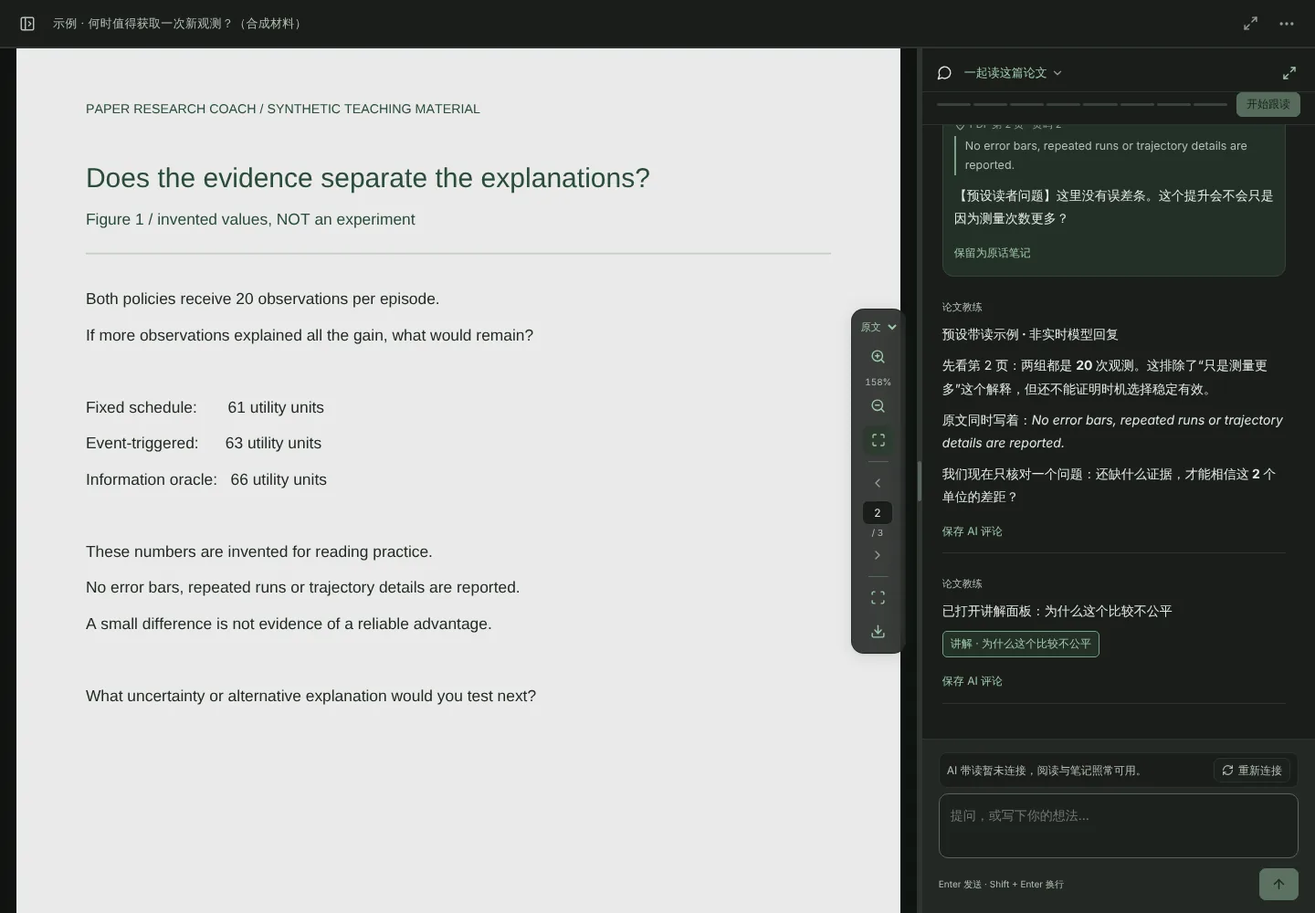
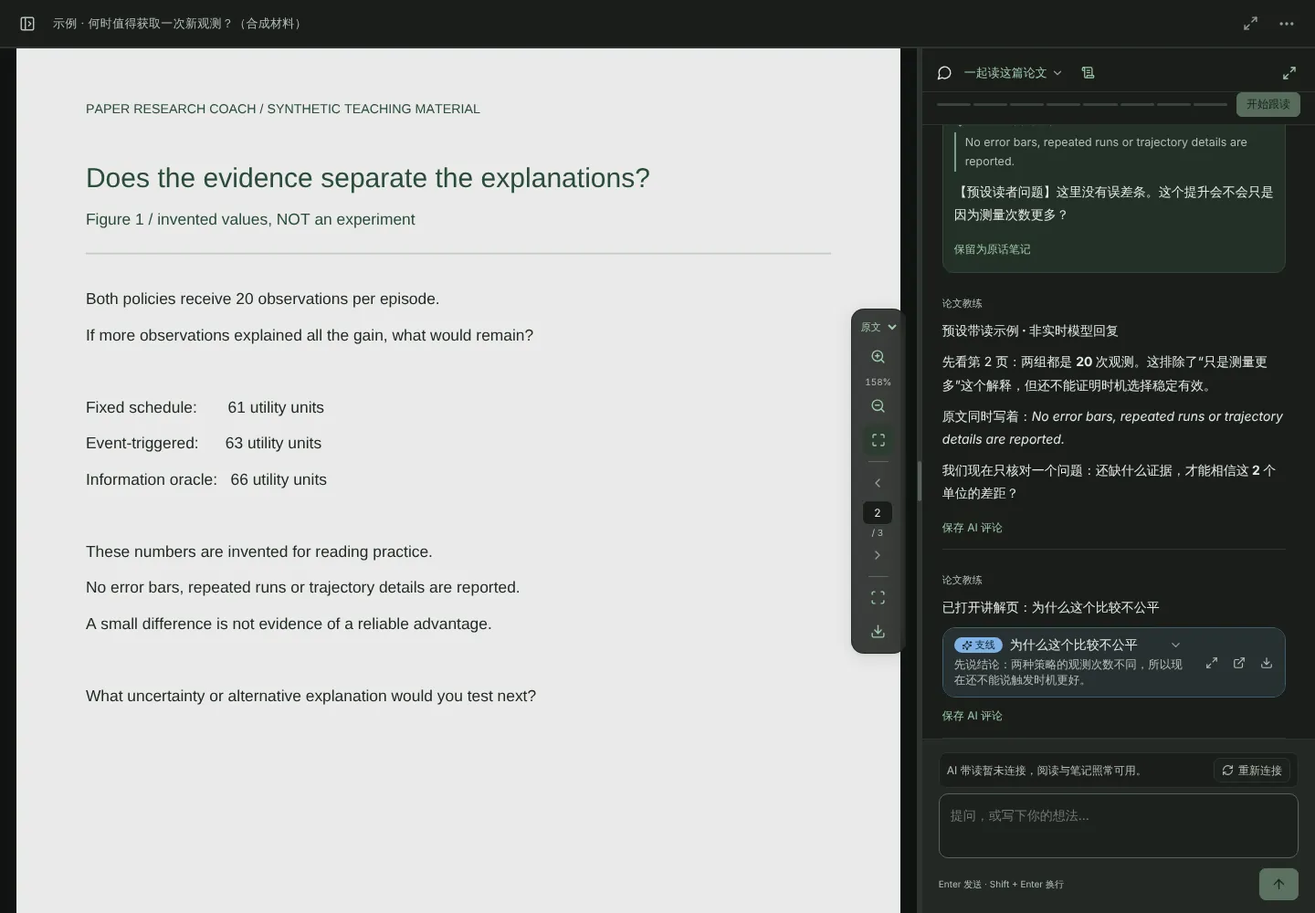
README and docs: quests, side quests, journey tree, Answer me with HTML
Both READMEs gain "像玩任务一样读论文" (quest card, side quest,
quest log, journey tree) and "一问就画出来：引入 Answer me with HTML
之后" (before/after, components, attribution) with refreshed synthetic
screenshots. WORKBENCH, METHOD, SHOWCASE, the attribution file and
the changelog describe the new behaviour; SHOWCASE documents the
Transformer capture script.

Claude-Session: https://claude.ai/code/session_01GcpVAfSr2umPABSyECRYFV

Changed region(s): [[0.7188, 0.31, 0.9688, 0.589], [0.7188, 0.62, 0.9688, 0.806], [0.7188, 0.155, 0.9688, 0.31]]

diff --git a/README.en.md b/README.en.md
@@ -24,7 +24,7 @@ The coach takes you to the sentence in the paper, gives you one small task at a 
 
 <picture>
   <source media="(prefers-color-scheme: dark)" srcset="docs/images/mainline-dark.webp">
-  <img src="docs/images/mainline.webp" alt="A mainline task: on the left the PDF has turned to the evidence page with sentence 1 marked; on the right the reply carries a small comparison table and the task card above the message box shows where to look, the task, what counts as done and one-tap answers.">
+  <img src="docs/images/mainline.webp" alt="A mainline quest card: on the left the PDF has turned to the evidence page with sentence 1 marked; on the right the reply is a card titled “mainline · chapter 5/8, evidence” with the marked quote, a small comparison table inside, and a one-line task strip above the message box.">
 </picture>
 
 <p align="center"><sub>Actual UI, following your light / dark theme · synthetic paper and a labelled scripted reply, not live-model output; no model was connected, so the buttons are grey · <a href="docs/SHOWCASE.md">Reproduce</a></sub></p>
@@ -39,12 +39,66 @@ The coach takes you to the sentence in the paper, gives you one small task at a 
   <img src="docs/images/loop-en.svg" alt="The reading loop: 1 see the source (the PDF turns to the page, sentences numbered) → 2 do one thing (predict or answer) → 3 check the evidence (the coach checks, with a small figure if it helps) → 4 keep a takeaway (one sentence, yours), and the next task appears at once.">
 </picture>
 
-The coach walks you through eight steps (reading goal → distinctive contribution → problem setting → mechanism → evidence → boundaries and judgment → research implications → recall), each one a small loop like the one above. A concrete question halfway through opens a panel beside the paper; press “回到主线” (back to the mainline) and you carry on.
+The coach walks you through eight mainline chapters (reading goal → distinctive contribution → problem setting → mechanism → evidence → boundaries and judgment → research implications → recall), each one a small loop like the one above. A concrete question halfway through opens a one-page visual explanation right in the conversation: a side quest. When you get it, press “我弄懂了” (I get it now); the mainline is where you left it.
 
 <p align="center">
   <img src="docs/images/demo.webp" width="860" alt="Animated demo: the task card appears → the PDF turns to page 2 and marks sentence ① → the small figure in the reply expands → one click returns to the earlier page.">
   <br><sub>Animated demo · synthetic paper and scripted replies, not live-model output (captions in Chinese)</sub>
 </p>
+
+## 🎮 Read a paper like a quest
+
+The mainline has eight chapters, one quest card each. The questions you ask on the way are side quests, filed under the chapter you were in. When you finish, the whole reading becomes a journey tree. There are no points and no mastery scores: finishing a chapter only means this round covered that judgment.
+
+<table>
+<tr>
+<td width="50%"><img src="docs/images/branch-card.webp" alt="A side-quest card in the conversation: the title, a conclusion card, panel A with a flow chart of the two budgets, and a comparison table."></td>
+<td width="50%"><img src="docs/images/side-quest-done.webp" alt="The side-quest box under an explainer page: done, with the reader's own one-sentence takeaway and buttons to rewrite it or reopen the side quest."></td>
+</tr>
+<tr>
+<td align="center"><sub><b>A side quest</b> · one explainer page, opened in the conversation</sub></td>
+<td align="center"><sub><b>Side quest done</b> · one sentence in your words, kept as written</sub></td>
+</tr>
+<tr>
+<td><img src="docs/images/quest-log-main.webp" alt="The quest log: mainline 4/8 chapters, the first four ticked with their takeaways, chapter 5 in progress with its task, and a side quest from before the mainline started."></td>
+<td>
+<picture>
+  <source media="(prefers-color-scheme: dark)" srcset="docs/images/journey-dark.webp">
+  <img src="docs/images/journey.webp" alt="The journey tree: the paper at the root and a trunk with eight chapters; finished chapters show their takeaways, chapter 5 shows its task and the marked passage, and chapters not started are dashed.">
+</picture>
+</td>
+</tr>
+<tr>
+<td align="center"><sub><b>Quest log</b> · eight chapters and the side quests under each</sub></td>
+<td align="center"><sub><b>Journey tree</b> · passages, your answers, takeaways and side quests in one tree; downloadable as HTML</sub></td>
+</tr>
+</table>
+
+| | What it is | When it is done |
+|---|---|---|
+| **Main quest** | Eight chapters, one card each: look here (the sentence marked in the PDF), your task (often one tap), the takeaway when it is done | The coach checks your answer against the source; you keep one sentence |
+| **Side quest** | A concrete question you asked while reading. The page opens in the conversation; follow-ups become its next pages | Only you can press “I get it now” (with one sentence of your own) or “set it aside” |
+| **Quest log** | The eight chapters with their takeaways, and the side quests under each | Open it any time; one click goes back to the page or the PDF |
+| **Journey tree** | The paper and your core judgment at the root; under each chapter the marked passages, your verbatim answers, the coach's first sentence, takeaways, side quests and notes | Offered when chapter 8 is done; also written into the Markdown paper card |
+
+<p align="center"><sub>Screenshots use a synthetic paper and clearly labelled scripted content, not live model output.</sub></p>
+
+## 🎨 Ask, and it is drawn: what Answer me with HTML changed
+
+The explainer pages build on [Answer me with HTML](https://github.com/QingYunA/answer-me-with-html) (QingYunA, MIT). The coach writes neither long paragraphs nor HTML: it writes a short Markdown draft, and the workbench draws the page.
+
+| Before | Now |
+|---|---|
+| A “why” got several paragraphs | One conclusion first, then panels A, B, C: a flow chart, a comparison table, a formula, a callout |
+| Answers got lost in the chat | Each question is a side quest under its chapter, easy to find in the quest log and the journey tree |
+| Not following meant asking again from scratch | Press “没看懂” on the one panel; the next page explains only that panel |
+| Explanations sat apart from the paper | Pages cite PDF pages, and the coach marks the sentences ①② in the PDF |
+| Mainline replies were plain text | A mainline reply is a quest card that can carry one small figure |
+| Keeping a copy meant copy and paste | Explainer pages and the journey tree download as one offline HTML file |
+
+- **Components**: `flow`, `sequence`, `tree`, `timeline`, `callout`, `ask`, `kv`, plus tables (✓ ✗ ! badges) and formulas. Two columns on wide screens; `{span=2}` makes a wide figure span both.
+- **Why it feels natural**: pages are drawn from data only, so text in a draft never runs as HTML; each page starts with its conclusion; a writing check flags long sentences, passive voice and empty phrases, and the coach rewrites them before you see the page.
+- **What we took**: the draft syntax and the writing-check rules are adapted from Answer me with HTML; the parser (Python) and the renderer (React) are our own, and its CLI is not bundled. See [THIRD_PARTY_ANSWER_ME_WITH_HTML.md](docs/THIRD_PARTY_ANSWER_ME_WITH_HTML.md).
 
 ## 🧭 Highlights
 
@@ -64,8 +118,8 @@ The task card says where to look, what to do and what counts as done. Prediction
 </td>
 <td width="33%" valign="top">
 
-**🧩 Explainer panel, one click back**<br>
-Concrete questions are answered beside the paper with figures, tables and short sentences, with follow-ups. Mainline replies can carry a small figure too.
+**🎨 Ask, and it is drawn**<br>
+A concrete question becomes a page in the conversation: flow charts, tables and formulas in lettered panels A, B, C. Ask about the one panel you did not follow. Fold it, enlarge it, pop it out or download it as HTML.
 
 </td>
 </tr>
@@ -115,11 +169,11 @@ Install the Skill for coaching in your agent, or use the workbench to read and d
 
 <table>
 <tr>
-<td width="50%"><img src="docs/images/branch.webp" alt="Explainer panel: the PDF on the left and a panel answering a concrete question with a flow chart, a table and a callout; “back to the mainline” sits at the top right."></td>
+<td width="50%"><img src="docs/images/branch.webp" alt="An explainer page enlarged beside the paper: the PDF on the left, a flow chart, a table and a callout on the right; “back to the mainline” sits at the top right."></td>
 <td width="50%"><img src="docs/images/reading.webp" alt="A discussion about one passage: the quoted source travels with the reader's question."></td>
 </tr>
 <tr>
-<td align="center"><sub><b>Explainer panel</b> · “回到主线” leaves the mainline where it was</sub></td>
+<td align="center"><sub><b>Explainer page, enlarged</b> · “回到主线” leaves the mainline where it was</sub></td>
 <td align="center"><sub><b>Talk about the source</b> · the quote travels with your question</sub></td>
 </tr>
 <tr>
@@ -203,7 +257,7 @@ Keep `references` and `assets`, not just `SKILL.md`. Format compatibility is not
 
 </details>
 
-With the workbench installed, the Skill in Claude Code can attach to the same paper's reading progress through `prc`: `prc find` finds the page, `prc show` turns the PDF there and marks the sentences, and `prc explain` opens the explainer panel.
+With the workbench installed, the Skill in Claude Code can attach to the same paper's reading progress through `prc`: `prc find` finds the page, `prc show` turns the PDF there and marks the sentences, and `prc explain` opens an explainer page (a side quest) in the conversation.
 
 <details>
 <summary>Uninstall, manual install, troubleshooting</summary>

diff --git a/docs/WORKBENCH.en.md b/docs/WORKBENCH.en.md
@@ -21,27 +21,35 @@ Automatic initialization is capped at 3000 characters, and ordinary per-turn pos
 ### Mainline and detours
 
 - **Where you are**: the coach title is the current step (“step n/8 · name”) above a thin progress line; click it to open the route and evidence receipts.
-- **Start**: **开始跟读** beside the progress line. After that, the mainline lives in the **task card** above the message box.
-- **The task card**: the step, **看这里** (look here; one click turns the PDF there), **你的任务** (your task) and **完成** (what counts as done). Predictions and choices have one-tap answers; buttons are **回答** (answer, focuses the box), **给我提示** (a hint) and **直接讲给我** (explain it); with nothing pending it shows **继续** (continue), and Enter in an empty box does the same.
+- **Start**: **开始跟读** beside the progress line. The eight steps are the eight mainline chapters.
+- **The mainline quest card**: each mainline reply is a card: “mainline · chapter n/8”, **看这里** (look here: the marked quotes with their pages; one click turns the PDF there), the coach's words (①②③ in the text are clickable too), at most one small figure, and **你的任务** (your task). Predictions and choices have one-tap answers; buttons are **回答** (answer, focuses the box), **给我提示** (a hint) and **直接讲给我** (explain it). When a chapter is done, the card ends with “chapter n done · takeaway: …”.
+- **The task strip**: one line above the message box with the current chapter and task; it opens into the full task (where to look, what counts as done), and **任务日志** (quest log) sits on its right. With nothing pending, Enter in an empty box continues the mainline.
 - **The coach shows you the source**: when the coach points at a page, the PDF turns there and the sentences to read are numbered ①②③ (a different colour from your own marks). A small chip offers **回到第 M 页** (back to page M) and **不要自动翻页** (stop turning pages for me; turn it back on in the tools drawer). At most one automatic jump per reply; reloading never jumps.
 - **A small figure in the mainline**: for a mechanism, a flow or evidence, a reply can carry a figure you can expand or pop out; choices inside it are sent as answers to the current question.
 - **Takeaways**: each finished step adds one sentence in your words to the route; after eight steps they form the paper card, which you can export.
 - **Answer**: with a pending question, type the answer and press Enter.
-- **Detour**: select text or a region and choose **讨论这处**, or **直接讲这处** for a one-click explanation. A detour never advances or resets the mainline. Concrete questions and technical details are answered in the **explainer panel** (below).
+- **Detour**: select text or a region and choose **讨论这处**, or **直接讲这处** for a one-click explanation. A detour never advances or resets the mainline. Concrete questions and technical details open a **side quest** answered by one explainer page (below).
 - **Nothing to configure**: answer versus detour is inferred (a selection is a detour; a reply to a pending question without a selection is an answer) and a small line under the box says where Enter will go. Ask for a hint, a direct explanation or a challenge in your own words. Region selections attach the page image automatically, and the coach can view any page itself.
 - **Getting the most out of it**: answer each step in a sentence before reading the feedback; state the contribution and your own next step in your words; park unfamiliar terms that do not block the current judgment. See [The reading method](METHOD.en.md).
 
-### The explainer panel (a branch)
+### Side quests and explainer pages
 
-Ask a concrete question (a concept, mechanism, equation, how to read a figure, a flow, a comparison, an implementation detail) and the coach opens an **explainer panel** beside the PDF instead of writing a wall of chat text:
+Ask a concrete question (a concept, mechanism, equation, how to read a figure, a flow, a comparison, an implementation detail) and the coach opens a **side quest** instead of writing a wall of chat text: one explainer page, shown as a card in the conversation and opened in place.
 
-- **Content**: the conclusion first, then flow charts, sequence diagrams, trees, timelines, tables (✓ ✗ badges) and callouts that draw the relations. The workbench draws them; the coach writes only content, and any text in a draft is shown as text and never executed.
-- **Follow-ups**: ask at the bottom of the panel; each follow-up is a new page of the same question (numbered tabs at the top). A decision the coach asks (`ask`) can be clicked, then “按这个选择继续” sends it.
-- **Back to the mainline**: **回到主线** at the top right (or Esc) closes the panel and focuses the message box; the mainline stays on its step and pending question, and is never advanced while the panel is open. A small line at the top reminds you where the mainline paused.
-- **New window**: the pop-out icon opens the same page in its own browser window, for a second screen; you can follow up there too, and “回到主线” closes it.
-- **History**: each explanation leaves a “讲解 · title” button in the chat; press it to reopen. Reloading never pops an old explanation open.
-- **Not every question gets a panel**: a one-word gloss or a one-sentence yes/no stays in chat, and mainline turns (continue, answer) open no panel; they carry at most one small figure inside the reply.
+- **Content**: a conclusion card, then panels lettered A, B, C: flow charts, sequence diagrams, trees, timelines, tables (✓ ✗ ! badges), formulas and callouts. Wide screens show two columns, and a wide figure spans both. The workbench draws them; the coach writes only content, and any text in a draft is shown as text and never executed.
+- **Fold and unfold**: click the card's title; folded, it is one line (title and conclusion). A new page in the same side quest folds the older ones. Reloading never unfolds an old page.
+- **Follow-ups**: ask at the bottom of the card, or use **追问这一块** (ask about this panel) and **没看懂** (I did not follow) at the top right of one panel. Each follow-up is a new page of the same side quest. A decision the coach asks (`ask`) can be clicked, then “按这个选择继续” sends it.
+- **Ending a side quest**: under the newest page, **我弄懂了** (I get it now; you may write one sentence in your words, kept as written) and **先放一放** (set it aside). Only you end a side quest; the coach never declares it for you. Setting it aside is not a failure: **继续这条支线** reopens it.
+- **Enlarge, pop out, download**: three buttons at the card's top right: enlarge beside the PDF (**回到主线** or Esc closes it and focuses the message box), open in its own window (for a second screen), or download one offline HTML file (static; no follow-ups).
+- **The mainline stays put**: during a side quest the mainline keeps its chapter and pending question.
+- **Not every question gets a side quest**: a one-word gloss or a one-sentence yes/no stays in chat, and mainline turns (continue, answer) open none; they carry at most one small figure inside the reply.
 - **From Claude Code**: `prc explain --paper ID --file draft.md` (`--check` only validates). The workbench must be running.
+
+### Quest log and journey tree
+
+- **Quest log**: from the task strip (or the icon beside the coach title). The eight chapters with their state (not started, in progress, done) and takeaways, and under each the side quests asked during it (in progress, understood, set aside). Click a side quest to go back to its page, or a page number to turn the PDF there.
+- **Journey tree**: **复盘树** in the quest log, or **查看这篇论文的复盘树** when chapter 8 is done. The root is the paper and the core judgment you wrote in chapter 6; the trunk is the eight chapters; under each chapter are the marked passages, the tasks with your verbatim answers, the first sentence of the coach's reply, the takeaway, side quests, notes, research ideas and review questions (filed by the chapter that was current when you wrote them; anything from before the mainline goes under “主线之外”). Fold it, open it in its own window (`#journey=PAPER_ID`), or download it as offline HTML.
+- **Records only**: the tree is not a new model summary, invents no answers and gives no scores. The Markdown paper card export carries the same content in a “主线与支线” section.
 - **Wording**: every reply follows plain-writing rules (short sentences, answer first, one word one meaning). Drafts are checked and may produce warnings; the check never refuses a draft. Rules: [style.md](../skills/paper-research-coach/references/style.md); sources and license: [THIRD_PARTY_ANSWER_ME_WITH_HTML.md](THIRD_PARTY_ANSWER_ME_WITH_HTML.md).
 
 Use secondary tools for the full route with evidence receipts, model connection, notes and evidence. Direct questions and explicit explanations do not require a complete reading route or translated PDF. Eight dimensions represent coverage, not measured mastery. Note consent and local performance-recording consent remain separate; AI explanations and Continue clicks do not demonstrate independent understanding.

diff --git a/docs/WORKBENCH.md b/docs/WORKBENCH.md
@@ -21,27 +21,35 @@
 ### 怎么用主线和插话
 
 - **看进度**：对话区标题就是当前步骤（“第 n/8 步 · 名称”），下面一条细进度线；点步骤名才展开八步路线与核查依据，平时不占地方。
-- **开始**：进度线右侧的 **开始跟读**。开始后，主线的操作都在输入框上方的**任务卡**里。
-- **任务卡**：写着第几步、**看这里**（点一下 PDF 就翻过去）、**你的任务**和**怎样算完成**。预测或选择题有一键作答的选项；按钮有 **回答**（光标进输入框）、**给我提示**、**直接讲给我**；没有待答问题时是 **继续**，空输入框按 Enter 也一样。
+- **开始**：进度线右侧的 **开始跟读**。八步就是主线八章。
+- **主线任务卡**：每条主线回复是一张卡：“主线 · 第 n/8 章”、**看这里**（标出的原文和页码，点一下 PDF 就翻过去）、教练的话（正文里的 ①②③ 也能点）、可能嵌着的一张小图、**你的任务**。预测或选择题有一键作答的选项；按钮有 **回答**（光标进输入框）、**给我提示**、**直接讲给我**。一章完成时，卡片底部出现“第 n 章完成 · 收获：……”。
+- **任务条**：输入框上方一行，写着当前章节和任务；点开是完整的任务说明（看哪里、怎样算完成），右侧是 **任务日志**。没有待答问题时空输入框按 Enter 继续主线。
 - **教练带你看原文**：教练讲到某一页时，PDF 会自动翻过去，要看的句子标着编号 ①②③（与你自己的标记颜色不同）。顶部一条小提示可以一键 **回到第 M 页**，也可以选 **不要自动翻页**（之后只在你点击时翻；工具抽屉里可再打开）。每次回复最多自动翻一次；刷新页面不会翻。
 - **主线里的小图**：讲机制、流程或证据时，回复里可能嵌一张小图，可以展开或在新窗口打开；图里的选项按“回答当前问题”发送。
 - **收获**：每完成一步，路线里多一句你的收获；八步完成后就是“这篇论文卡”，可以导出。
 - **回答**：有待答问题时，直接写回答按 Enter 即可。
-- **插话**：在 PDF 选中文字或框选区域，点 **讨论这处** 后提问，或点 **直接讲这处**；插话不推进也不打乱主线。具体问题和技术细节会在**讲解面板**里回答（见下）。
+- **插话**：在 PDF 选中文字或框选区域，点 **讨论这处** 后提问，或点 **直接讲这处**；插话不推进也不打乱主线。具体问题和技术细节会开一条**支线**，用一页讲解回答（见下）。
 - **全自动，不用设置**：是回答还是插话由系统判断（带选区为插话，有待答问题且无选区为回答），输入框下方一行小字会说明这次 Enter 的去向；想要提示、直接讲解或被反驳，直接在消息里说。框选区域会自动附上页面图像，教练也能自己查看任何一页。
 - **收获最大的读法**：每一步先自己答一句再看教练反馈；第 6 步用自己的话说贡献、第 7 步自己先说下一步做什么；看不懂但不影响判断的词先记下，读完一段再查。完整方法见 [阅读方法论](METHOD.md)。
 
-### 讲解面板（分支）
+### 支线与讲解页
 
-问一个具体问题（概念、机制、公式、图表怎么读、流程、对比、实现细节），教练会在 PDF 旁边打开一块**讲解面板**，而不是在聊天里写长文：
+问一个具体问题（概念、机制、公式、图表怎么读、流程、对比、实现细节），教练不在聊天里写长文，而是开一条**支线**：一页讲解作为一张卡片出现在对话里，自动展开。
 
-- **内容**：结论放最前，再用流程图、时序图、层级树、时间线、表格（✓ ✗ 标记）、提醒块把关系画出来。图由工作台画，教练只写内容；草稿里的任何文字都只当文本显示，不会被执行。
-- **追问**：面板底部直接追问，每个追问是同一问题的新一页（顶部有页码）。教练给出的“决定”（`ask`）可以点选，选完点“按这个选择继续”。
-- **回到主线**：右上角的 **回到主线**（或按 Esc）关闭面板，焦点回到对话输入框；主线停在原来的步骤和待答问题上，面板期间不会被推进。面板顶部一行小字提醒主线停在哪一步。
-- **新窗口**：点面板上的“在新窗口打开”图标，同一页会在独立的浏览器窗口里打开，可以放在另一块屏幕上；在那里也能追问，点“回到主线”会关闭它。
-- **回看**：聊天里每次讲解都留下一个“讲解 · 标题”按钮，点它重新打开。刷新页面不会自动弹出旧讲解。
-- **不是每个问题都开面板**：一个词的译法、一句话能答完的是非题，仍在聊天里答；主线回合（继续、回答）不开面板，最多在回复里嵌一张小图。
-- **从 Claude Code 开面板**：`prc explain --paper ID --file draft.md`（`--check` 只检查）。工作台须在运行。
+- **内容**：先是一张结论卡，下面是标着 A、B、C 的小块：流程图、时序图、层级树、时间线、表格（✓ ✗ ! 标记）、公式、提醒块。宽屏时排成两栏，宽的图横跨两栏。图由工作台画，教练只写内容；草稿里的任何文字都只当文本显示，不会被执行。
+- **展开和收起**：点卡片标题收起或展开；收起时只占一行（标题和结论）。同一条支线出新页时，旧页自动收起。刷新页面不会自动展开旧讲解。
+- **追问**：卡片底部直接追问；每一块右上角有 **追问这一块** 和 **没看懂**，只针对那一块。每个追问是同一条支线的新一页。教练给出的“决定”（`ask`）可以点选，选完点“按这个选择继续”。
+- **结束一条支线**：最新一页下方有 **我弄懂了**（可以写一句自己的理解，原话保存）和 **先放一放**。只有你能结束支线，教练不会替你宣布；“先放一放”不是失败，随时可以 **继续这条支线**。
+- **放大、新窗口、下载**：卡片右上角三个按钮：放大到 PDF 旁边（**回到主线** 或 Esc 关闭，焦点回到输入框）、在独立窗口打开（可放到另一块屏幕）、下载成一个离线 HTML 文件（静态页面，不能追问）。
+- **主线不动**：支线期间主线停在原来的章节和待答问题上，不会被推进。
+- **不是每个问题都开支线**：一个词的译法、一句话能答完的是非题，仍在聊天里答；主线回合（继续、回答）不开支线，最多在回复里嵌一张小图。
+- **从 Claude Code 打开**：`prc explain --paper ID --file draft.md`（`--check` 只检查）。工作台须在运行。
+
+### 任务日志与复盘树
+
+- **任务日志**：任务条右侧（或对话标题旁的图标）打开。列出主线八章的状态（未开始、进行中、已完成）和每章的收获，每章下面挂着在这一章提出的支线（进行中、已弄懂、先放一放）。点一条支线回到那页讲解，点页码翻到那页 PDF。
+- **复盘树**：任务日志里的 **复盘树**，或第 8 章完成时的 **查看这篇论文的复盘树**。根是论文和你在第 6 章写下的核心判断；主干是八章；每章下是标出的原文、任务和你的原话回答、教练那条回复的第一句、收获、支线、笔记、研究想法和复习题（按写下时所在的章归类，开读前写的放在“主线之外”）。可以折叠，可以在新窗口打开（地址 `#journey=论文编号`），可以下载成离线 HTML。
+- **只摆出记录**：复盘树不让模型再总结一遍，不编造没发生过的回答，也不打分。论文卡的 Markdown 导出里有同样内容的“主线与支线”一节。
 - **写法**：所有回复按简明写作规则写（短句、先说结论、一词一义）。讲解草稿会自动检查并给出警告，只警告不拒绝。规则见 [style.md](../skills/paper-research-coach/references/style.md)，来源与许可见 [THIRD_PARTY_ANSWER_ME_WITH_HTML.md](THIRD_PARTY_ANSWER_ME_WITH_HTML.md)。
 
 “更多 → 教练”提供完整八步路线与核查依据、模型和连接；“更多 → 笔记”保存原话与独立评论。你可以直接问当前句子、要求解释或只要提示，不必先翻译整篇。八步是完整核查的覆盖范围，不是局部解释的门禁；点击继续、AI 解释或英文流畅不等于掌握。原话笔记授权与实际表现记录授权分别控制。

diff --git a/docs/METHOD.en.md b/docs/METHOD.en.md
@@ -145,12 +145,12 @@ Carr sets a high bar for notes: **later, the notes alone should be enough — no
 
 **In the tool.** Step 8 needs a real answer from this round; research-question cards hold the observation, hypothesis, alternative, strong simple baseline, minimal test and refutation condition. The default 1/3/7/14-day review spacing is an adjustable starting point, **not** a schedule proven optimal.
 
-### Two supporting designs: the explainer panel and the way it speaks
+### Two supporting designs: side-quest explainer pages and the way it speaks
 
-**A concrete question opens a panel beside the paper, and the mainline waits.** Stuck on a technical detail (say, “why can an oracle serve as an upper bound?”), two bad things tend to happen: the mainline is interrupted and never resumed, or a wall of chat text arrives and you forget it as you read. So such questions are answered in an **explainer panel**: the conclusion first, then flow charts, sequence diagrams and tables that draw the relations. You can ask follow-ups inside it; each becomes a new page. One click on **回到主线** (back to the mainline) leaves the mainline on the step and pending question where it was.
+**A concrete question opens a side quest, and the mainline waits.** Stuck on a technical detail (say, “why can an oracle serve as an upper bound?”), two bad things tend to happen: the mainline is interrupted and never resumed, or a wall of chat text arrives and you forget it as you read. So such questions are answered by **one explainer page**, shown as a side quest in the conversation: the conclusion first, then lettered panels A, B, C with flow charts, sequence diagrams and tables that draw the relations. Ask about the one panel you did not follow; each follow-up becomes a new page. When you get it, you press “我弄懂了” and write one sentence in your words; the mainline stays on the step and pending question where it was.
 
 - Why: cognitive load theory (Sweller) says working memory is limited, and extra material crowds out thinking while you are stuck on a detail; Mayer’s multimedia-learning work proposes segmenting and removing extraneous material. One question per page, with words and pictures together, applies those ideas directly.
-- What it is not: not every word gets a panel — a one-word gloss or a one-sentence answer stays in chat; mainline turns open no panel and carry at most one small figure inside the reply.
+- What it is not: not every word gets a side quest — a one-word gloss or a one-sentence answer stays in chat; mainline turns open none and carry at most one small figure inside the reply.
 - Honest limit: this is design motivation; its effect on PhD students reading papers has not been tested.
 
 **Short, simple, human wording.** Every reply follows a plain-writing discipline: one idea per sentence, the answer first, active voice, one word for one meaning, common words, concrete numbers, and a one-sentence explanation of each term at first use. It also sounds like a colleague at your side: “you”, a small example before a definition, “the paper does not say” when it does not, and never dropping qualifiers such as *may*, *under* or *on average*.
@@ -166,9 +166,10 @@ Carr sets a high bar for notes: **later, the notes alone should be enough — no
 |---|---|
 | Keshav's three passes; Carr's and Wang Shuyi's non-linear order (abstract → conclusion → figures → introduction → results → method last) | Each step has a "usually look here". The coach finds the source and **turns your PDF to that page, numbering the sentences to read**; you do not hunt for them. Each sentence must be on that page word for word, so it cannot be made up. |
 | Predict before looking (principle 3); the generation effect (Slamecka & Graf); retrieval practice (Roediger & Karpicke) | The task card asks you to **guess or answer first**, with one-tap answers for predictions; where a step asks you to predict or recall, the figure waits until you have answered, so it does not give the answer away. |
-| Cognitive load (Sweller); multimedia learning (Mayer) | A mainline reply can carry **one small figure** (a flow, an evidence table) next to the marked sentences; concrete questions go to the panel beside the paper, not into the mainline. |
-| One move per turn, help that fades by ability (Wood/Bruner/Ross, Kalyuga) | A **task card** above the message box: where to look, one thing to do, what counts as done. "Hint" and "explain it to me" are one-tap requests, not settings; a turn with help does not count as independent. |
-| Half-page review and the three-sentence judgment (Shum/Hua) | Each finished step keeps **one takeaway in your words**; the eight takeaways are the paper's review and can be exported. |
+| Cognitive load (Sweller); multimedia learning (Mayer) | A mainline reply can carry **one small figure** (a flow, an evidence table) next to the marked sentences; concrete questions become **one explainer page** (a side quest) drawn and asked about panel by panel, not part of the mainline. |
+| One move per turn, help that fades by ability (Wood/Bruner/Ross, Kalyuga) | Each mainline reply is a **quest card**: where to look, one thing to do, what counts as done; a one-line task strip sits above the message box. "Hint" and "explain it to me" are one-tap requests, not settings; a turn with help does not count as independent. |
+| Completion is not mastery (clicking continue or reading an AI explanation is not mastery) | Eight mainline chapters and side quests move like a game's quests, but there are **no points, levels or mastery scores**; only you can mark a side quest understood, in your own words. |
+| Half-page review and the three-sentence judgment (Shum/Hua); retrieval practice | Each finished step keeps **one takeaway in your words**; after reading, the **journey tree** lays out the chapters, marked passages, your verbatim answers, side quests and notes, from records only and without scores, and can be exported. |
 | Three levels: skim, read, study | The depth you chose sets how far each step goes: skim takes one conclusion per step and can stop any time; study asks for derivations. |
 
 When a step is done, the next step's first small task arrives in the same reply and the PDF is already at the right place, so you do not stop to plan what comes next. This is design motivation; its effect on learning has not been tested.
@@ -226,7 +227,7 @@ Questions 9 and 10 are answered by you first and checked by the coach; an AI-wri
 | Can’t say what the paper did | Each paper leaves a testable contribution sentence, not an evenly weighted summary |
 | Stumped in group meeting | You already asked “what is the alternative explanation, is the baseline fair?” while reading |
 | Many papers read, no ideas | Enter through a failure, contradiction, mechanism, missing information or cost, and land on a falsifiable question and minimal test |
-| Stuck on a technical detail mid-read | A panel beside the paper explains it with figures and tables; the mainline waits; one click returns |
+| Stuck on a technical detail mid-read | A side quest: one explainer page in the conversation with figures and tables, asked about panel by panel; the mainline waits |
 | Thoughts vanish | Your words are saved with an anchor; you resume at the same passage |
 | A week per paper | Minutes to decide whether a paper deserves more; a recorded stop is an outcome |
 | Language and concepts tangled | Language and concept gaps are separated; no whole-paper translation needed |

diff --git a/docs/SHOWCASE.md b/docs/SHOWCASE.md
@@ -6,7 +6,18 @@ The showcase is the actual built workbench, not a marketing mockup. The paper, v
 
 The committed WebPs are 1440-pixel-wide copies of the desktop captures: `reading.webp`, its dark-theme twin `reading-dark.webp` (the README picks one with `<picture>`), `welcome.webp` and `annotations.webp` from the PDF annotation check. Full-size desktop, welcome, import-dialog and narrow-viewport PNGs are available in the `reading-showcase` artifact of [Reading browser checks](https://github.com/ooooooomygosh/paper-research-coach/actions/workflows/showcase.yml), retained for 14 days. The script below recreates them after artifact expiry.
 
-The README also uses `mainline.webp` / `mainline-dark.webp` (the mainline task card after the coach turned the PDF to a marked sentence), `branch.webp` / `branch-dark.webp` (the explainer panel) and `demo.webp`, a four-frame animated WebP of the same scripted scene (task card → page turned and sentence ① marked → the figure in the reply expanded → back to the earlier page). The captions in the demo are drawn by the browser on top of the real page and say that the replies are scripted. All of them come from `scripts/capture_showcase.py`.
+The README also uses `mainline.webp` / `mainline-dark.webp` (the mainline quest card after the coach turned the PDF to a marked sentence), `branch-card.webp` (a side-quest explainer page opened in the conversation), `side-quest-done.webp` (the same side quest closed with the reader's own sentence), `quest-log-main.webp` (the quest log), `journey.webp` / `journey-dark.webp` (the journey tree), `branch.webp` / `branch-dark.webp` (an explainer page enlarged beside the paper) and `demo.webp`, a four-frame animated WebP of the same scripted scene (quest card → page turned and sentence ① marked → the figure in the reply expanded → back to the earlier page). The captions in the demo are drawn by the browser on top of the real page and say that the replies are scripted. All of them come from `scripts/capture_showcase.py`; the PNGs are converted to WebP (quality 80) for the repository.
+
+## A real paper: Attention Is All You Need
+
+`scripts/capture_transformer_demo.py` runs the same workbench on *Attention Is All You Need* (Vaswani et al., 2017, [arXiv:1706.03762](https://arxiv.org/abs/1706.03762)). It downloads arXiv v7 into a temporary folder (or takes `--pdf` with a local copy). The PDF is never committed. Before anything is drawn, every sentence the demo marks is checked against the PDF's own text; one miss stops the script. It captures a side quest (“why divide by √d_k?”, with a follow-up on one panel and the reader closing it), the chapter-5 quest card on Table 1, the quest log, the journey tree after all eight chapters, and an animated `demo-transformer.webp`.
+
+All dialogue, explainer pages and the reader's answers in this demo are scripted. Every picture carries a “预设演示 · 非实时模型回复” badge with the paper's citation. The explainer drafts are committed as test fixtures (`tests/fixtures/explainers/transformer-*.md`) and pass the writing check with no warnings. The paper's first page grants permission to reproduce its tables and figures, with attribution, in journalistic or scholarly works; screenshots also show its text, so maintainers should judge whether a given use fits.
+
+```bash
+python scripts/capture_transformer_demo.py --output showcase-transformer   # downloads arXiv v7
+python scripts/capture_transformer_demo.py --pdf attention.pdf --output showcase-transformer
+```
 
 The reading-loop diagrams (`loop.svg`, `loop-dark.svg`, `loop-en.svg`, `loop-en-dark.svg`) and the repository's social preview (`social-preview.png`, 1280×640) are drawn by `scripts/readme_art.py` from text and the mainline screenshot:
 

diff --git a/CHANGELOG.md b/CHANGELOG.md
@@ -2,6 +2,13 @@
 
 ## Unreleased
 
+- **Explainer pages live in the conversation.** A concrete question opens a side-quest card in the chat that unfolds in place (older pages of the same question fold up). Pages follow the *Answer me with HTML* layout idea: a conclusion card, then lettered panel cards in a two-column grid; `## Title {span=2 meta="…"}` spans both columns and adds a note in the title bar. Each panel has “追问这一块” and “没看懂” buttons that ask about that panel only, in the same branch. Cards enlarge beside the paper, pop out, or download as one offline HTML file (scripts and controls removed). Wide flow charts turn vertical in narrow columns.
+- **Mainline quest cards.** Each mainline reply is a card: chapter n/8, the marked quotes (click to turn the PDF), the coach's words with clickable ①②③, the inline figure, the task with one-tap answers, and a “chapter done · takeaway” banner. The task card above the message box becomes a one-line strip. Messages now record their chapter (`step`), the task a reply set and the chapter it completed.
+- **Side quests.** Each explainer branch is a side quest. Only the reader ends it: “我弄懂了” with one sentence in their own words (kept verbatim) or “先放一放”; `POST /api/coach/branch/{id}/quest` is reader-only and the model has no tool for it. A rewrite of a page keeps the state.
+- **Quest log and journey tree.** The quest log lists the eight chapters with their takeaways and files each side quest under the chapter where it was asked. `GET /api/coach/journey/{paper}` and the journey tree show the whole reading from saved records only: the paper and the chapter-6 judgment at the root; under each chapter the marked passages, tasks with verbatim answers, the coach's first sentence, takeaways, side quests, and notes, ideas and review questions by the chapter current when written; anything else under “other”. It opens from the quest log, from the chapter-8 card and as its own window (`#journey=PAPER`), downloads as HTML, and the Markdown paper card gains a “主线与支线” section. No points or scores anywhere.
+- **Transformer showcase script.** `scripts/capture_transformer_demo.py` captures the workbench on *Attention Is All You Need* (arXiv:1706.03762, downloaded to a temporary folder, never committed), checks every marked sentence against the PDF, and labels all scripted content. Four Transformer explainer drafts are committed as lint-clean fixtures.
+- Skill: SKILL.md, `branch.md`, `reading-flow.md`, the runtime prompt and the `prc_explain` description describe side quests, the panel layout, the quest log and the journey tree; three new eval scenarios (45 in total). README, WORKBENCH, METHOD, SHOWCASE and the *Answer me with HTML* attribution are updated, with new screenshots.
+
 ## 2.0.0rc12
 
 - **The coach shows you the source.** New tools `prc_find` (search the paper's text) and `prc_show` (turn the reader's PDF to a page and number 1 to 3 sentences). Each quote must be on that page word for word (case, spacing and line-break hyphens may differ); an invented quote is refused. Marks have their own colour and numbers ①②③; the PDF jumps once per coach reply, a chip offers one click back to the earlier page and a switch to stop automatic page turns; reloading never jumps. Scanned pages: the reader is taken to the page, nothing is marked. CLI: `prc find`, `prc show`.

diff --git a/docs/THIRD_PARTY_ANSWER_ME_WITH_HTML.md b/docs/THIRD_PARTY_ANSWER_ME_WITH_HTML.md
@@ -3,7 +3,8 @@
 The branch explainer reuses ideas and rules from **Answer me with HTML** (https://github.com/QingYunA/answer-me-with-html), which is MIT licensed:
 
 - the Markdown draft syntax (front matter, `##` panels, and the `flow`, `sequence`, `tree`, `timeline`, `callout`, `ask` and `kv` fenced components), reduced to what a reading branch needs;
-- the plain-writing check: sentence and paragraph limits, the English non-approved-word list, English passive voice, and the Chinese light-verb, cliché and vague-quantity rules (`src/paper_research_coach/explainer.py`).
+- the plain-writing check: sentence and paragraph limits, the English non-approved-word list, English passive voice, and the Chinese light-verb, cliché and vague-quantity rules (`src/paper_research_coach/explainer.py`);
+- the page layout idea: a conclusion card first, then lettered panel cards in a grid (two columns when wide; a panel can span both), with small meta text in a panel's title bar. Our heading attributes `{span=2 meta="…" bare}` follow that idea. The CSS is our own (`frontend/src/explainer/explainer.css`); no stylesheet or template was copied.
 
 We wrote our own parser (Python, returning typed JSON) and our own renderer (React). We do not bundle their CLI. A draft written for that project works here for these components. Their Chinese word list in turn comes from Simplified Technical Chinese (https://github.com/mzopedia/simplified-technical-chinese). Flow layout uses dagre (MIT).
 
